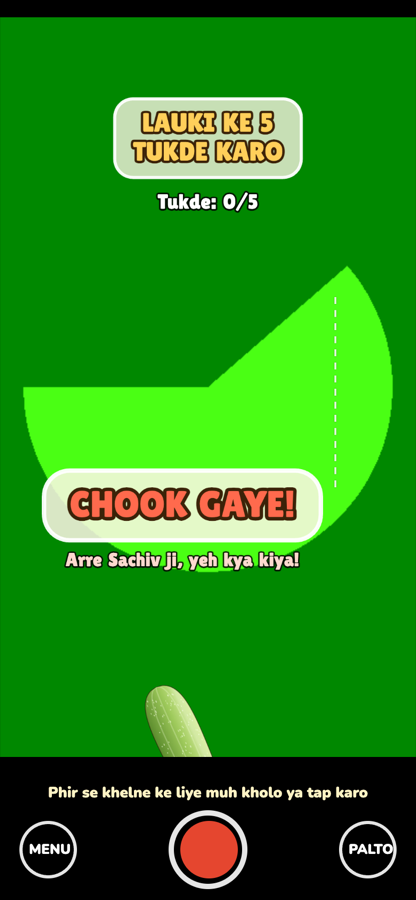
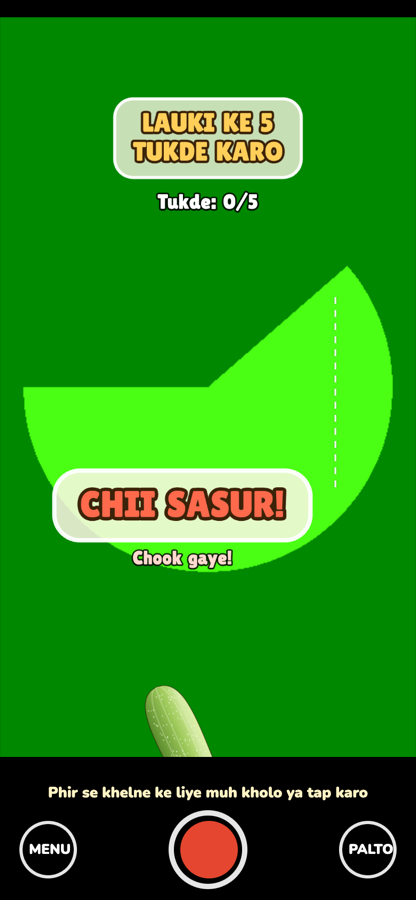
New win and lose lines: "Ab hoga Banrakas raj!" and "Chii sasur!"
Team feedback. The result box shrinks long lines to stay inside the Reels
safe zone; a small "Jeet gaye!" / "Chook gaye!" line sits under it.

Changed region(s): [[0.0938, 0.4978, 0.7812, 0.6533]]

diff --git a/public/index.html b/public/index.html
@@ -415,10 +415,13 @@ function drawKnife(x, yTip, scale) {
   ctx.restore();
 }
 
-function pill(text, cx, cy, size, fill = "#ffcf5a", bg = "rgba(255,248,232,.78)") {
+function pill(text, cx, cy, size, fill = "#ffcf5a", bg = "rgba(255,248,232,.78)", maxW = Infinity) {
   ctx.font = `${size}px "Lilita One", system-ui`;
   if ("wordSpacing" in ctx) ctx.wordSpacing = `${size * 0.12}px`;
-  const lines = text.split("\n"), lw = Math.max(...lines.map((l) => ctx.measureText(l).width)), lh = size * 1.1;
+  const widest = () => Math.max(...text.split("\n").map((l) => ctx.measureText(l).width));
+  const fit = Math.min(1, maxW / (widest() + size * 1.4)); // shrink long lines to stay inside the safe zone
+  if (fit < 1) { size *= fit; ctx.font = `${size}px "Lilita One", system-ui`; if ("wordSpacing" in ctx) ctx.wordSpacing = `${size * 0.12}px`; }
+  const lines = text.split("\n"), lw = widest(), lh = size * 1.1;
   const bw = lw + size * 1.4, bh = lh * lines.length + size * 0.8;
   ctx.fillStyle = bg; ctx.strokeStyle = "rgba(255,255,255,.95)"; ctx.lineWidth = size * 0.12;
   ctx.beginPath(); ctx.roundRect(cx - bw / 2, cy - bh / 2, bw, bh, size * 0.7); ctx.fill(); ctx.stroke();
@@ -530,9 +533,10 @@ function frame(now) {
     if (game.state === "over") {
       const t = Math.min(1, (now - game.endAt) / 250), sc = 0.6 + 0.4 * (1 - Math.pow(1 - t, 3));
       ctx.save(); ctx.translate(RESULT_X, RESULT_Y); ctx.scale(sc, sc); ctx.translate(-RESULT_X, -RESULT_Y);
-      pill(game.won ? "JEET GAYE!" : "CHOOK GAYE!", RESULT_X, RESULT_Y, s * 1.4, game.won ? "#9df07a" : "#ff6a4d", "rgba(255,248,232,.85)");
+      const { bh } = pill(game.won ? "AB HOGA\nBANRAKAS RAJ!" : "CHII SASUR!", RESULT_X, RESULT_Y, s * 1.4,
+        game.won ? "#9df07a" : "#ff6a4d", "rgba(255,248,232,.85)", SAFE.rail - SAFE.left - 8);
       ctx.restore();
-      outlined(game.won ? "Pradhan ji khush hue!" : "Arre Sachiv ji, yeh kya kiya!", RESULT_X, RESULT_Y + s * 2.1, s * 0.72, game.won ? "#fff3c4" : "#ffd9cf");
+      outlined(game.won ? "Jeet gaye!" : "Chook gaye!", RESULT_X, RESULT_Y + bh / 2 + s * 0.7, s * 0.72, game.won ? "#fff3c4" : "#ffd9cf");
     }
 
     if (game.state === "over") setHint(now - game.endAt > 700 ? (mode === "mouth" ? "Phir se khelne ke liye muh kholo ya tap karo" : "Phir se khelne ke liye tap karo") : "");

diff --git a/README.md b/README.md
@@ -18,8 +18,8 @@
 1. Camera on karo. Lauki seedha aapke chehre pe, naak ke level pe aa jaayegi, aur aapke saath hilegi.
 2. Neeche chaaku left-right chalta rahega, upar dotted line ke saath.
 3. **Muh kholo** (ya screen pe **tap** karo) toh chaaku lauki pe girega aur ek tukda kat ke gir jaayega.
-4. **5 tukde** kaat liye toh *JEET GAYE!* Pradhan ji khush.
-5. Chaaku lauki ke bahar gira toh *CHOOK GAYE!* Arre Sachiv ji, ek galti aur khel khatam.
+4. **5 tukde** kaat liye toh *AB HOGA BANRAKAS RAJ!*
+5. Chaaku lauki ke bahar gira toh *CHII SASUR!* Ek galti aur khel khatam.
 6. Har tukde ke baad chaaku thoda tez ho jaata hai. Sar hila ke lauki ko chaaku ke neeche laao.
 
 ## Video record karna
